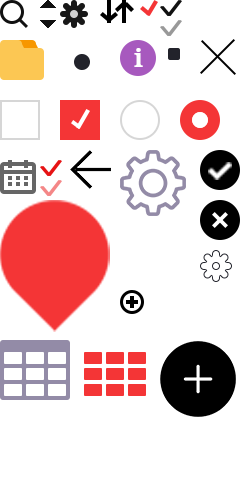
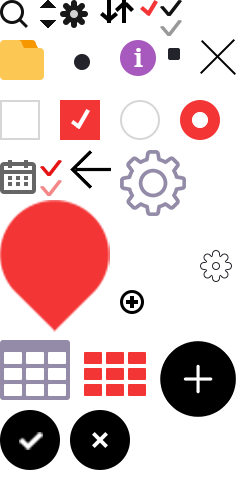
tab_preprocess button 수정

Changed region(s): [[0.8167, 0.3, 1.0, 0.48], [0.2917, 0.81, 0.5542, 0.96], [0.0, 0.81, 0.2625, 0.96]]

diff --git a/autoinsight_frontend/static/autoinsight_frontend/css/style.css b/autoinsight_frontend/static/autoinsight_frontend/css/style.css
@@ -1122,9 +1122,10 @@ main {
 .tab_preprocess .nav-item {
     float: left;
     height: 73px;
-    margin-top: 15px;
-    padding-left:52px;
+    padding-top: 15px;
+    padding-left:30px;
     text-align: center;
+    box-sizing: content-box;
 }
 .tab_preprocess .nav-item:hover {
     position: relative;
@@ -1143,8 +1144,8 @@ main {
 }
 .tab_preprocess .nav-link{
     position: relative;
-    width:35px;
     height:100%;
+    margin-right:20px;
     padding:0;
     cursor: pointer;
 }
@@ -1169,10 +1170,13 @@ main {
     margin-top:23px;
 }
 .tab_preprocess .item_add:after {
-    left:-15px;
-    right:15px;
+    left: calc(-50% + 20px);
+    right: 50%;
     border-bottom:4px dotted #9289ab;
     background-color:#e6e6e6
+}
+.tab_preprocess .item_point + .item_add:after {
+    left: calc(-50% + 13px);
 }
 .tab_preprocess .item_add .nav-link:after {
     background-color:#000;
@@ -1200,27 +1204,31 @@ main {
 }
 .tab_preprocess .ico_on {
     position: absolute;
-    top:15px;
-    right:-6px;
-    width:20px;
-    height:20px;
-    background-position: -100px -75px;
+    top:10px;
+    right:-20px;
+    width:30px;
+    height:30px;
+    border-radius: 50%;
+    background-position: 0 -205px;
 }
 .tab_preprocess .ico_del {
     display: none;
     position: absolute;
-    top:15px;
-    right:-7px;
-    width:20px;
-    height:20px;
-    background-position: -100px -100px;
+    top:10px;
+    right:-20px;
+    width:30px;
+    height:30px;
+    background-position: -35px -205px;
+    z-index: 10;
 }
-.tab_preprocess .nav-link:hover .ico_del {
+.tab_preprocess li:hover .ico_del {
     display: block;
+}
+.tab_preprocess .item_point {
+    margin-right:-13px;
 }
 .tab_preprocess .item_point .nav-link {
     width:55px;
-    margin:0 -10px;
 }
 .tab_preprocess .item_point .nav-link:before {
     content:'';
@@ -1252,6 +1260,10 @@ main {
 }
 .tab_preprocess .item_point .nav-link .ico_automl {
     top:0;
+}
+.tab_preprocess .item_point .nav-link .ico_del, .tab_preprocess .item_point .nav-link .ico_on {
+    top:-10px;
+    right:-15px;
 }
 .btn_run {
     align-self: flex-end;
